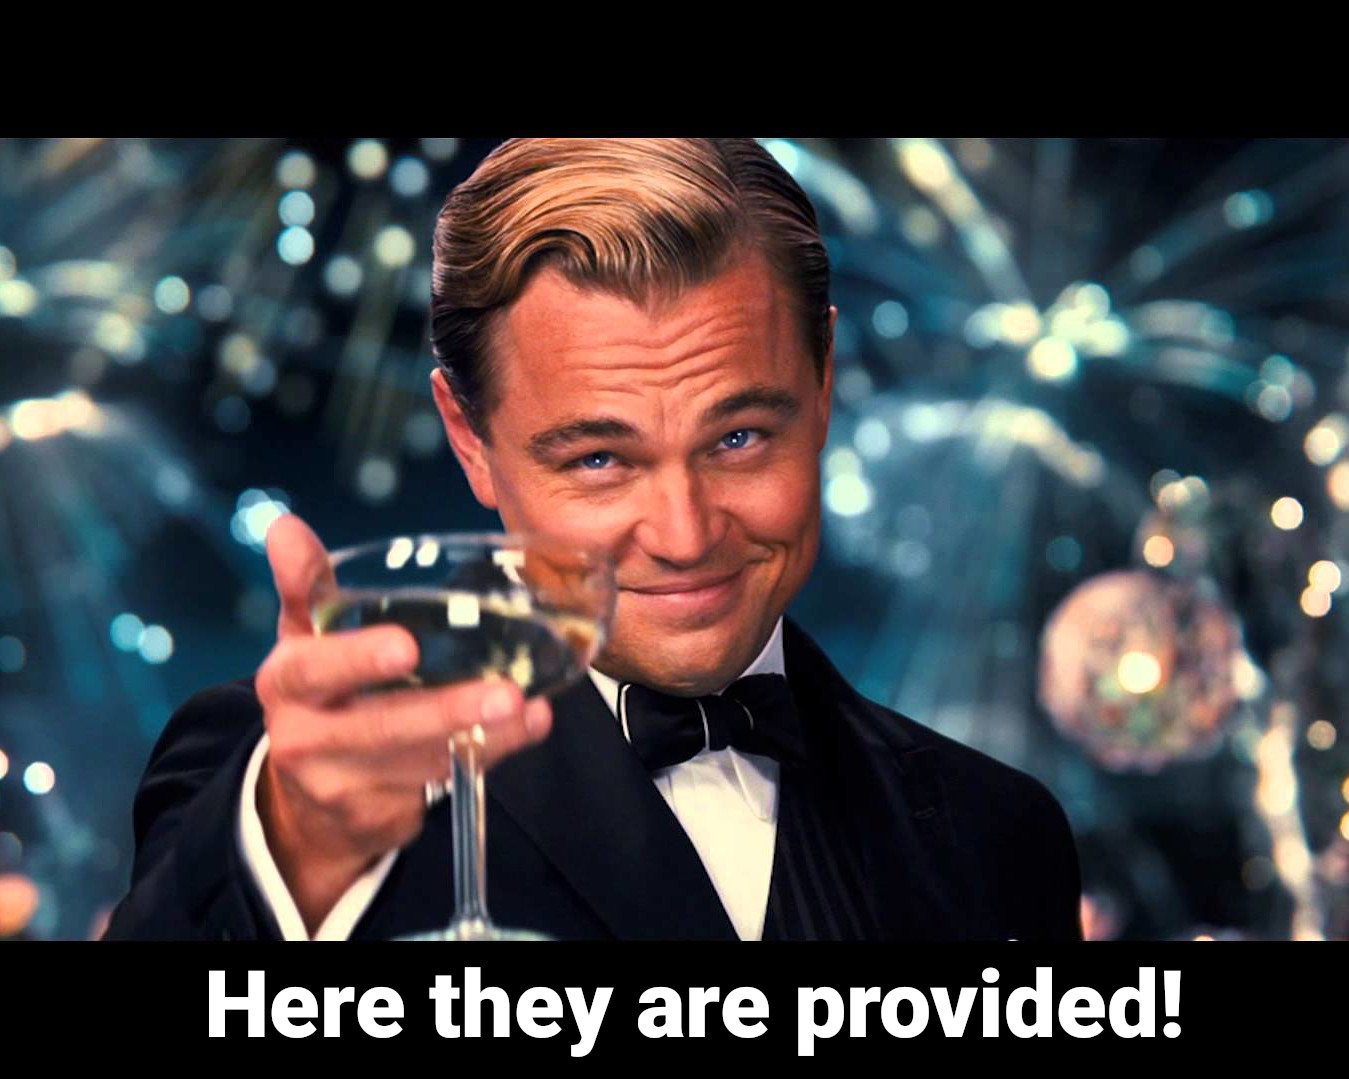
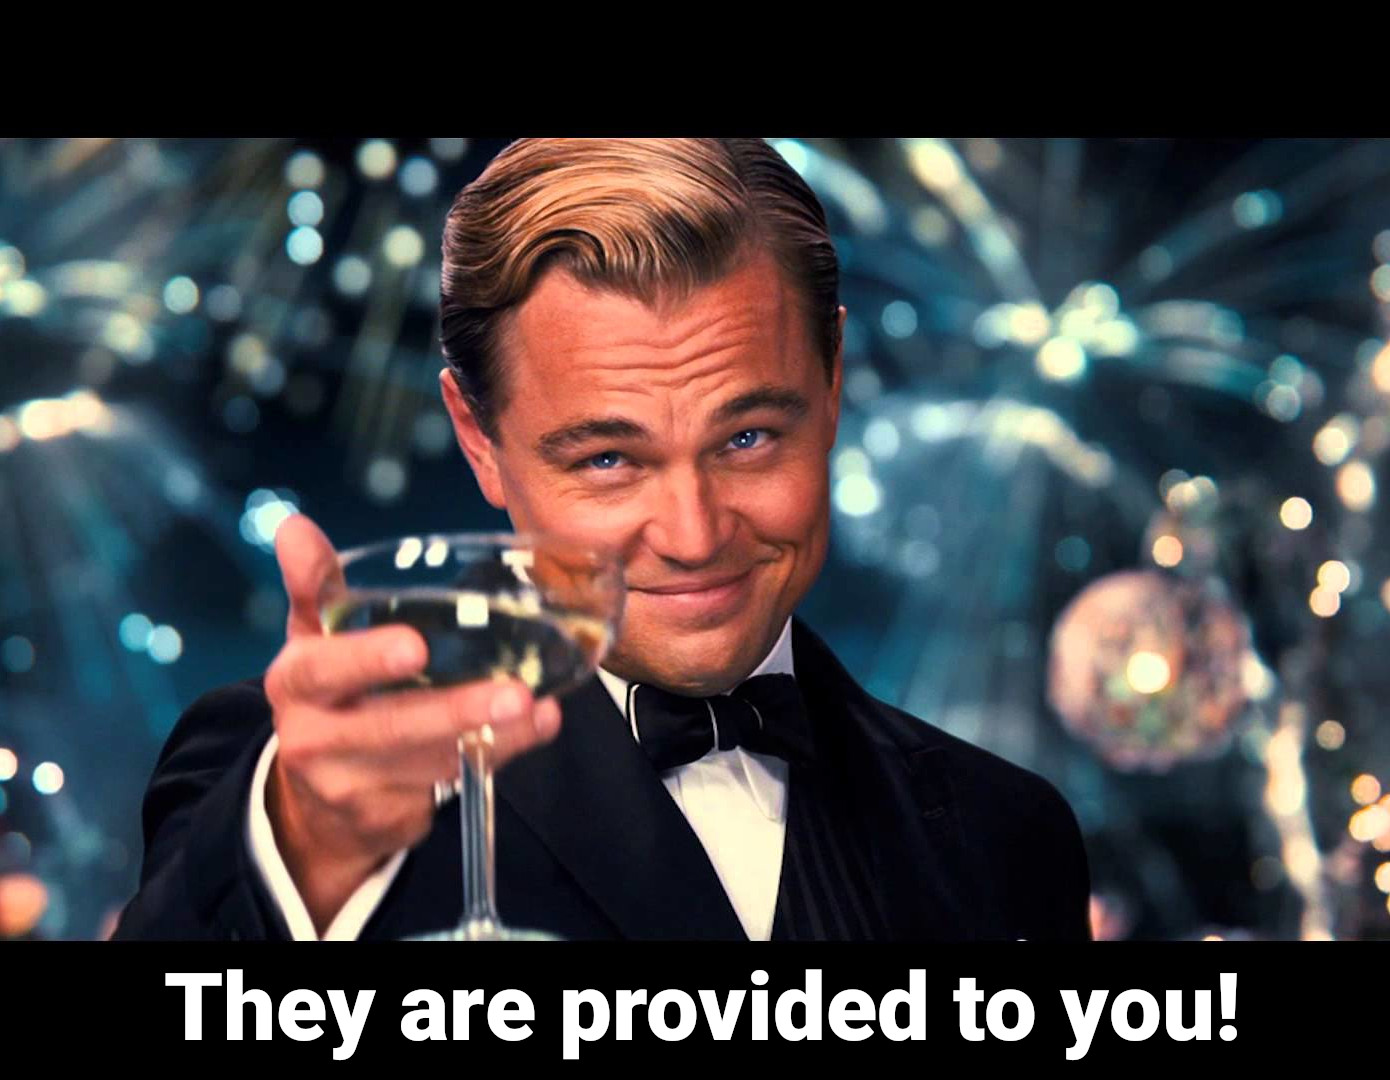
Lighter links on dark backgrounds

diff --git a/css/theme/light.css b/css/theme/light.css
@@ -35,3 +35,11 @@ section.has-dark-background.title h5,
 section.has-dark-background.title h6 {
   text-shadow: 0px 5px 7px #000;
 }
+
+section.has-dark-background a {
+  color: var(--linkColorHover);
+}
+
+section.has-dark-background a:hover {
+  color: var(--linkColor);
+}

diff --git a/slides.md b/slides.md
@@ -79,7 +79,7 @@ const audioContext = new AudioContext()
 const destination = audioContext.destination
 ```
 
-![](assets/provided.jpg) <!-- .element: class="fragment" data-fragment-index="1" width="60%" -->
+![](assets/provided.jpg) <!-- .element: class="plain fragment" data-fragment-index="1" width="60%" -->
 
 ---
 
@@ -99,10 +99,10 @@ this.oscillator.start()
 
 ## Resources
 
-- [Web Audio API on MDN](https://developer.mozilla.org/en-US/docs/Web/API/Web_Audio_API)
-- [Synth Secrets](https://www.soundonsound.com/techniques/synth-secrets-all-63-parts-sound-on-sound)
-- [Learning Synths](https://learningsynths.ableton.com/)
-- [AudioNodes](https://audionodes.com/online)
+<small>https://developer.mozilla.org/en-US/docs/Web/API/Web_Audio_API</small>  
+<small>https://www.soundonsound.com/techniques/synth-secrets-all-63-parts-sound-on-sound</small>  
+<small>https://learningsynths.ableton.com</small>  
+<small>https://audionodes.com/online</small>
 
 ---
 
